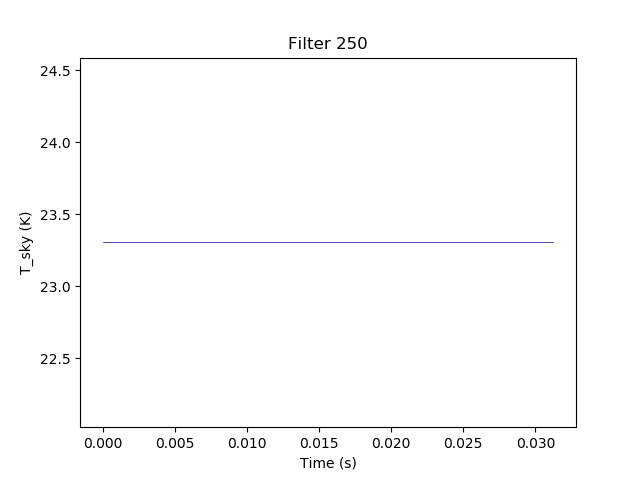
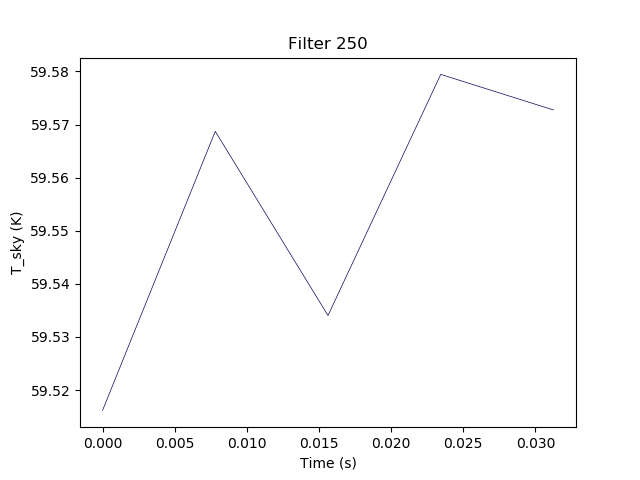
add comments 1

diff --git a/signal_transmitter.py b/signal_transmitter.py
@@ -28,7 +28,7 @@ import DESHIMA.MKID.photon_noise as pn
 import Source.bb_source as bbs
 
 class signal_transmitter(object):
-    "Class that transmits the signal through the telescope"
+    "Class that transmits the signal through all components of the model"
 
     sampling_rate = 160
 
@@ -59,6 +59,14 @@ class signal_transmitter(object):
         self.F_max = self.filters[-1]
 
     def transmit_signal_simple(self):
+        """
+        OUTDATED - Transmits the signal through the most simple version of the
+        DESHIMA model, using a blackbody source instead of the atmosphere and
+        the galaxy. The DESHIMA instrument sensitivity is not included in this
+        estimation and only one filter is simulated. It approximates the filter
+        response with a Gaussian and adds photon noise using a Gaussian
+        estimation of the Poisson distribution.
+        """
         bb_source = bbs.bb_source(self.F_min, self.F_max, self.num_bins, self.T, self.spec_res)
         [self.bin_centres, self.P_bin_centres] = bb_source.approx_JN_curve()
         filterbank = fb.filterbank(self.F0, self.spec_res)
@@ -73,12 +81,18 @@ class signal_transmitter(object):
             noise_signal.delta_F = bb_source.bin_width
             signal_matrix[i, :] = noise_signal.calcTimeSignalBoosted(self.time)[1]
             if i == 0:
-                x = noise_signal.calcTimeSignalBoosted(self.time)[0]
-        y = np.sum(signal_matrix, axis=0)
-        return [x, y]
+                frequency_vector = noise_signal.calcTimeSignalBoosted(self.time)[0]
+        power_vector = np.sum(signal_matrix, axis=0)
+        return [frequency_vector, power_vector]
 
     def transmit_signal_DESIM(self): #is not working atm
-        """Makes mock-up time signal for 1 filter with 1 Lorentzian"""
+        """
+        OUTDATED - Transmits the signal through the DESHIMA model. The galaxy
+        data and atmosphere are not included in this version of the model and
+        only one filter is simulated. It approximates the filter response with a
+        Gaussian and adds photon noise using a Gaussian estimation of the
+        Poisson distribution.
+        """
         self.bin_centres, self.psd_bin_centres = use_desim.getpsd_KID()
         self.P_bin_centres = self.psd_bin_centres * (self.bin_centres[1]-self.bin_centres[0])
         print(self.bin_centres, self.P_bin_centres)
@@ -98,6 +112,13 @@ class signal_transmitter(object):
         return [x, y]
 
     def transmit_signal_DESIM_multf(self):
+        """
+        OUTDATED - Transmits the signal through the DESHIMA model. The galaxy
+        data and atmosphere are not included in this version of the model, but
+        multiple filteres are simulated. It approximates the filter response with a
+        Gaussian and adds photon noise using a Gaussian estimation of the
+        Poisson distribution.
+        """
         # Obtain data from DESIM
         [self.bin_centres, self.psd_bin_centres, filters] = use_desim.transmit_through_DESHIMA(self.F_min, self.F_max, \
         self.num_bins, self.num_filters, self.spec_res)[1:4] #vector, frequency
@@ -125,16 +146,51 @@ class signal_transmitter(object):
         return [time_vector, power_matrix, filters] #x is the time, summed_signal_matrix is the power (stochastic signal)
 
     def save_filtered_pwv_map(self):
-        # windspeed = 1320000.0/self.time
-        windspeed = 10
+        """
+        This function loads in all atmosphere strips, takes the part of them
+        that is needed for the simulation, glues them together and filters them
+        with a Gaussian filter. The file is saved in the './Data/output_ARIS/'
+        directory with name filename.
+        """
+        windspeed = 1320000.0/self.time
         aris_instance = use_aris.use_ARIS(self.prefix_atm_data, self.grid, self.windspeed, self.time)
         tt_instance = tt.telescope_transmission()
         aris_instance.filtered_pwv_matrix = tt_instance.filter_with_Gaussian(aris_instance.pwv_matrix, self.beam_radius)
         path = os.path.dirname(os.path.abspath(__file__))
-        filename = '/Data/output_ARIS/remove_me.txt'
-        np.savetxt(path + filename, aris_instance.filtered_pwv_matrix)
+        relpath = '/Data/output_ARIS/'
+        filename = 'remove_me.txt'
+        np.savetxt(path + relpath + filename, aris_instance.filtered_pwv_matrix)
 
     def transmit_signal_DESIM_multf_atm(self):
+        """
+        This function transmits the signal through the final version of the
+        DESHIMA model. It starts with calculating the number of samples needed
+        and making a time vector. Then the atmosphere map from ARIS is loaded in
+        and filtered. It then loads the galaxy spectrum and converts this to a
+        psd. Finally, it gives all the needed information to the processInput
+        function that calculates the signal with parallel computing.
+
+        Returns
+        ------------
+        time_vector: vector
+            The times at which the signal needs to be calculated
+            Unit: s
+        power_matrix_res: array
+            Values of the power of the signal. This matrix has shape
+            [5 (number of different pwv values), number of filters, number of time samples]
+            Unit: W
+        T_sky_matrix: array
+            Values of the sky temperature of the signal. This matrix has shape
+            [5 (number of different pwv values), number of filters, number of time samples]
+            Unit: K
+        self.filters: vector
+            Center frequencies of the filters in the filterbank in the MKID chip
+            Unit: Hz
+        start: float
+            The moment at which the calculations started, to be able to show the
+            elapsed time after running the program.
+            Unit: s
+        """
         self.num_samples = int(self.time*self.sampling_rate)
         time_vector = np.linspace(0, self.time, self.num_samples)
 
@@ -170,6 +226,19 @@ class signal_transmitter(object):
         return [time_vector, power_matrix_res, T_sky_matrix, self.filters, start] #x is the time, power_matrix is a stochastic signal of the power, filters are the frequencies of the filters
 
     def processInput(i, self, aris_instance, use_desim_instance, time_step, count):
+        """
+        This function gets the right values of the pwv and then transmits the signal
+        through Desim (DESHIMA simulator). The psd that is obtained from Desim is
+        integrated to obtain the power and finally, photon noise is added using
+        a Gaussian estimation of the Poisson distribution.
+
+        Returns
+        ------------
+        power_matrix_column: array
+            Values of the power of the signal for one time sample. This matrix has shape
+            [5 (number of different pwv values), number of filters]
+            Unit: W
+        """
         pwv_value = aris_instance.obt_pwv(time_step, count, self.windspeed)
         [self.bin_centres, self.psd_bin_centres, filters] = use_desim_instance.transmit_through_DESHIMA(self, pwv_value)[1:4]
 
@@ -182,6 +251,18 @@ class signal_transmitter(object):
         return power_matrix_column
 
     def convert_P_to_Tsky(self, power_matrix, filters):
+        """
+        This function converts an array with power values to an array with sky
+        temperature values, using the saved interpolation function from the
+        '.Data/splines_Tb_sky/' repository.
+
+        Returns
+        ------------
+        T_sky_matrix: array
+            Values of the sky temperature that correspons to the values of the
+            power that were passed to the function
+            Unit: K
+        """
         T_sky_matrix = np.zeros(power_matrix.shape)
         for i in range(0, self.num_filters):
             path = os.path.dirname(os.path.abspath(__file__))
@@ -189,10 +270,18 @@ class signal_transmitter(object):
             f_load = np.load(path + filename, allow_pickle= True)
             f_function = f_load.item()
             for j in range(0, power_matrix.shape[1]):
-                T_sky_matrix[i, j] = f_function(90., power_matrix[i, j])
+                T_sky_matrix[i, j] = f_function(self.EL, power_matrix[i, j])
         return T_sky_matrix
 
     def draw_signal(self, save_name_plot, plot_filters = [1]):
+        """
+        This function makes sure the signal is calculated for each filter and
+        plots the signal for the filters given in plot_filters. It then saves
+        plot in the same folder as this file with the name save_name_plot.
+
+        The part of the signal that is plotted is the middle left position of
+        the pwv values.
+        """
         plt.figure()
         if self.useDESIM:
             if self.num_filters > 1:

diff --git a/main.py b/main.py
@@ -10,6 +10,11 @@ sys.path.append('./GalaxySpectrum/')
 import GalaxySpectrum.spectrumCreate as galaxy
 
 def calcMaxObsTime(windspeed):
+    """
+    Calculates the maximum observing time, using the number of gridpoints in
+    one atmosphere strip, the gridwidth, the number of atmosphere strips and the
+    windspeed
+    """
     # maximum time
     # every strip has 32768 x-values
     max_obs_time = 32768.0*max_num_strips*grid/windspeed
@@ -29,8 +34,7 @@ linewidth = 300
 # Observation
 EL = 60.
 max_obs_time = calcMaxObsTime(windspeed)
-# obs_time = 0.03125 #s
-obs_time = 1e14
+obs_time = 0.03125 #s
 if obs_time > max_obs_time:
     raise ValueError('obs_time must be smaller than max_obs_time: ', max_obs_time)
 draw_filters = [250]
@@ -60,7 +64,9 @@ signal_transmitter_1 = st.signal_transmitter(input_dictionary)
 # signal_transmitter_1.save_filtered_pwv_map()
 signal_transmitter_1.draw_signal(save_name_plot, draw_filters)
 
-
+##------------------------------------------------------------------------------
+## Code that might be useful later
+##------------------------------------------------------------------------------
 
 # Galaxy test
 # frequency,spectrum=galaxy.giveSpectrumInclSLs(12,2)
